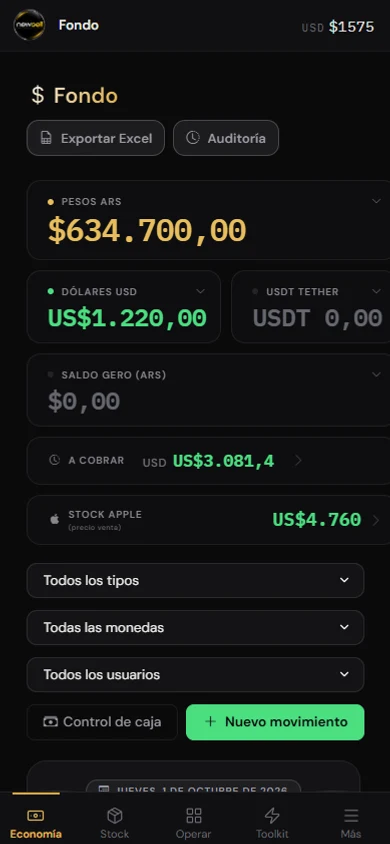
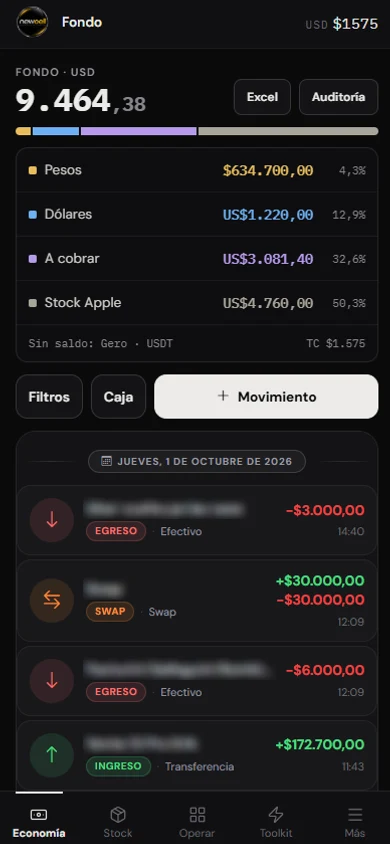
Reemplazar captura de Caja en celular por la vista de Economía
Nueva captura mobile con el total, el desglose por moneda y los
movimientos (descripciones censuradas). Texto alternativo actualizado.

diff --git a/index.html b/index.html
@@ -247,7 +247,7 @@
                   <img src="assets/newcell/movil/02-panel.webp" alt="Panel principal de Newcell en el celular" width="390" height="844" loading="lazy" decoding="async">
                 </div>
                 <div class="carousel__slide" role="group" aria-roledescription="captura" aria-label="3 de 7: Caja">
-                  <img src="assets/newcell/movil/03-caja.webp" alt="Saldos de la caja de Newcell en el celular" width="390" height="844" loading="lazy" decoding="async">
+                  <img src="assets/newcell/movil/03-caja.webp" alt="Caja de Newcell en el celular, con el total, el desglose por moneda y los movimientos" width="390" height="844" loading="lazy" decoding="async">
                 </div>
                 <div class="carousel__slide" role="group" aria-roledescription="captura" aria-label="4 de 7: Flyers de stock">
                   <img src="assets/newcell/movil/04-flyers.webp" alt="Vista previa de un flyer de stock en el celular" width="390" height="844" loading="lazy" decoding="async">
